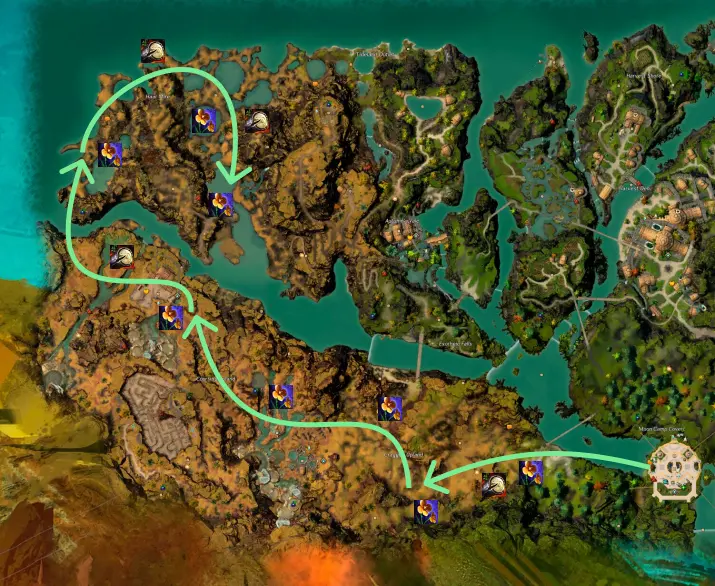
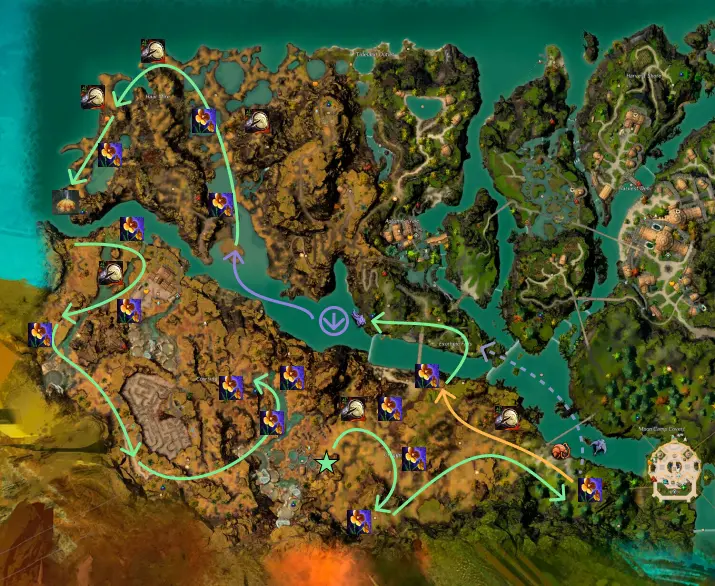
Upgrade composer, updated Lowland Shore gathering route

diff --git a/resources/js/vue/components/guides/nodes/HoneyFlowersAndLowlandPineSaplings.vue b/resources/js/vue/components/guides/nodes/HoneyFlowersAndLowlandPineSaplings.vue
@@ -2,6 +2,8 @@
     <div class="guide-container">
         <h3>Route</h3>
 
+        <p>Credits: pieffff.2065. This is a slightly modified route.</p>
+
         <button @click="(e) => {copyWaypoint(copyAllWaypoints(guides)); handleTooltipToggle(e)}">Copy all waypoints</button>
 
         <GuideItem
